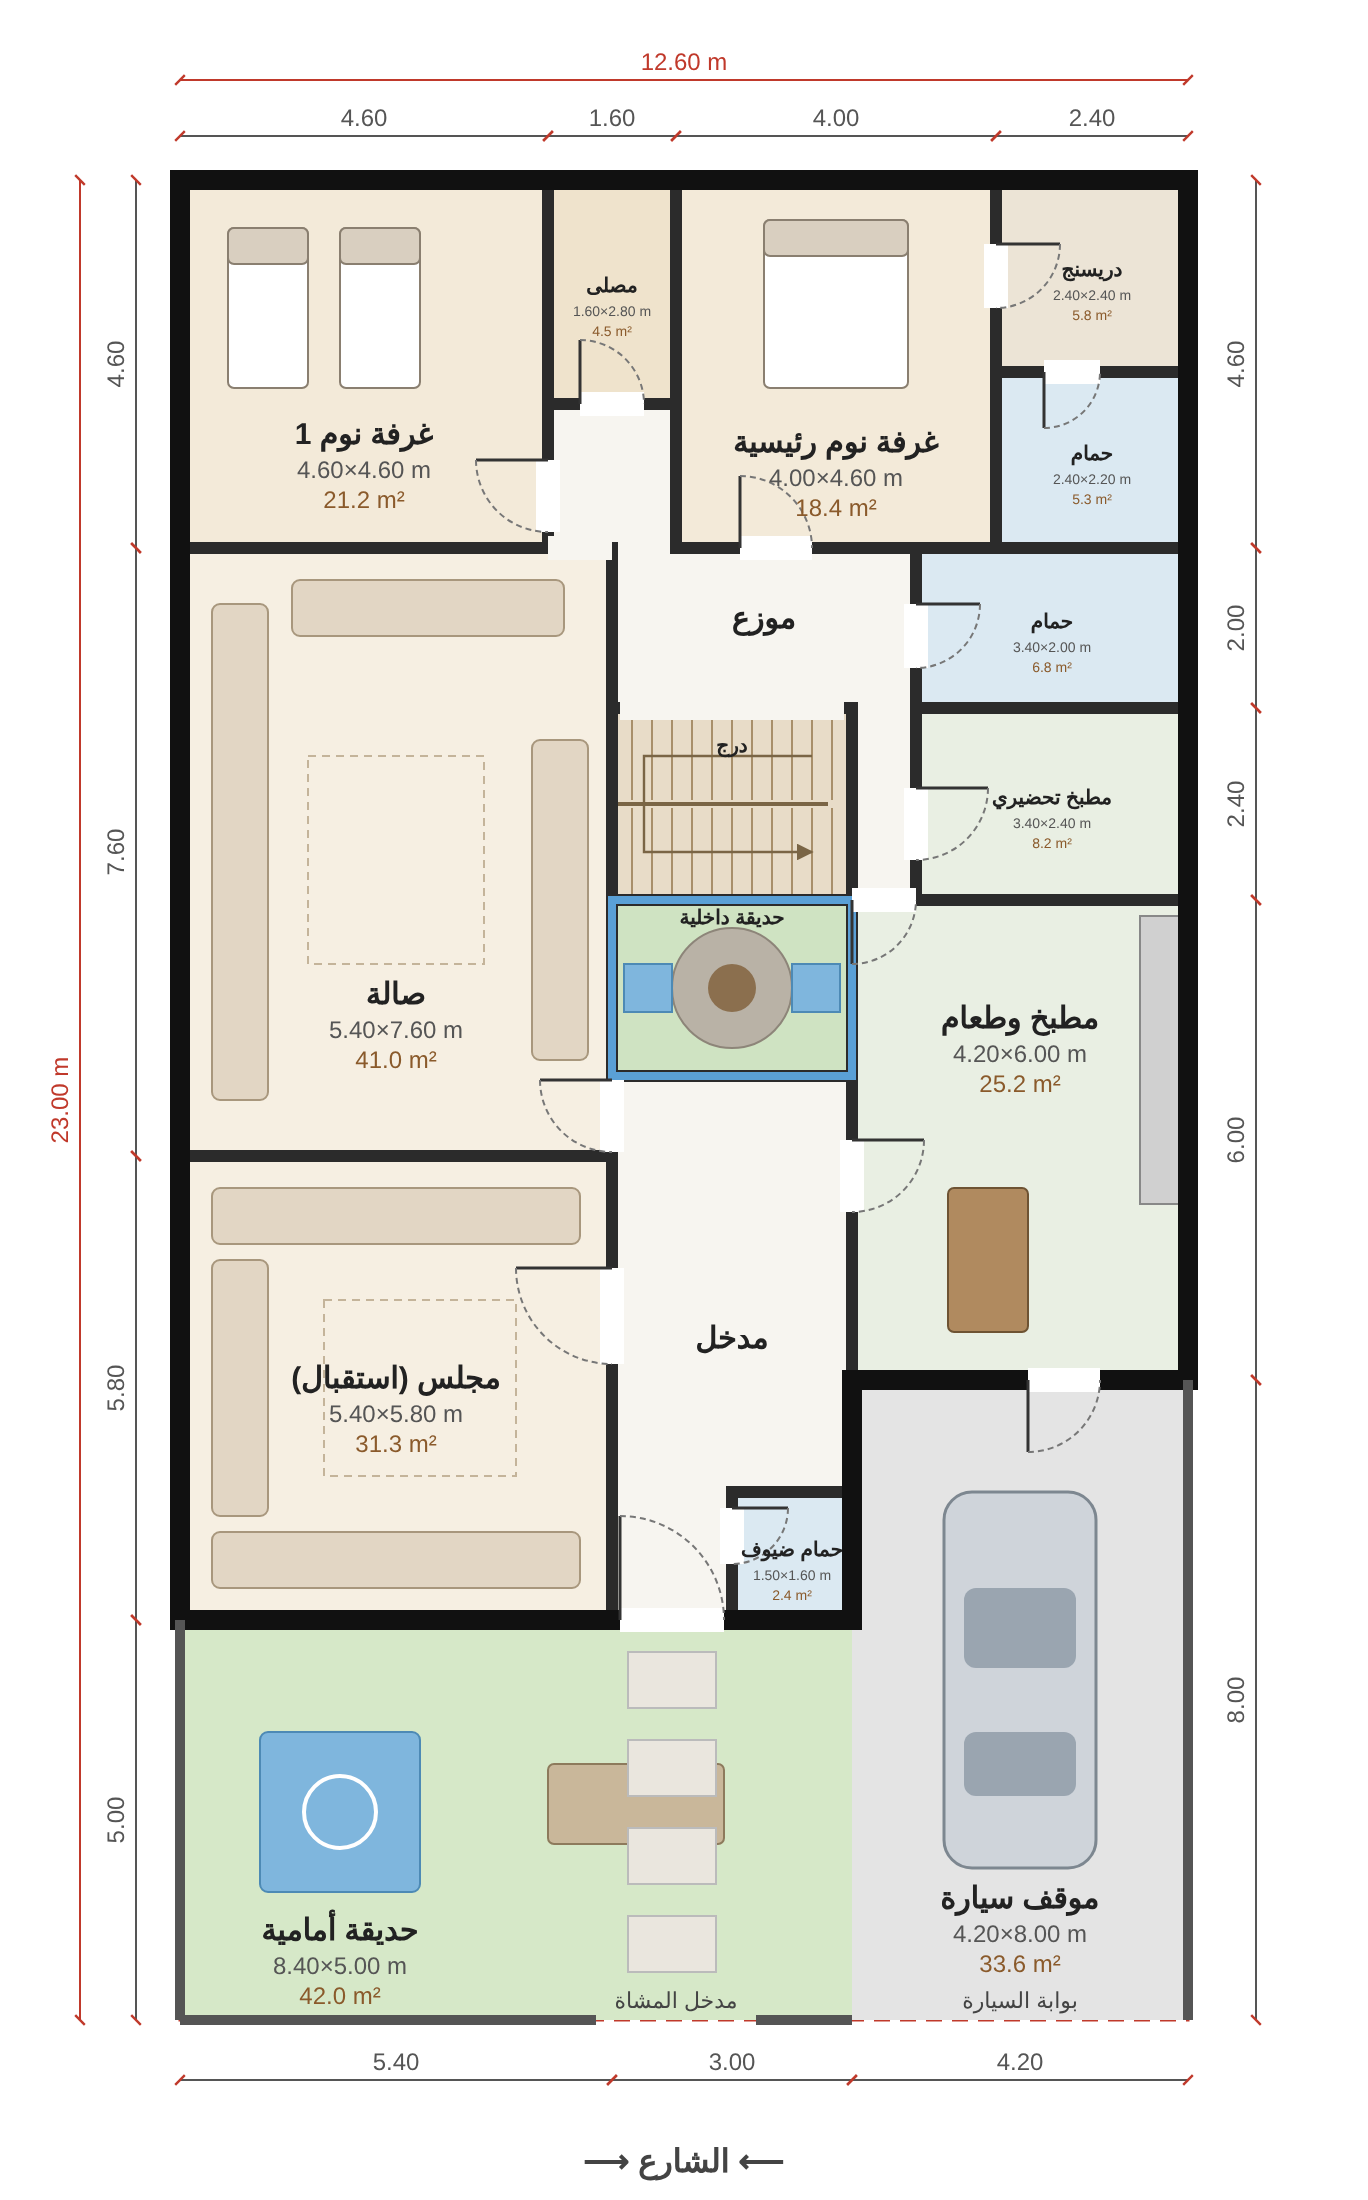
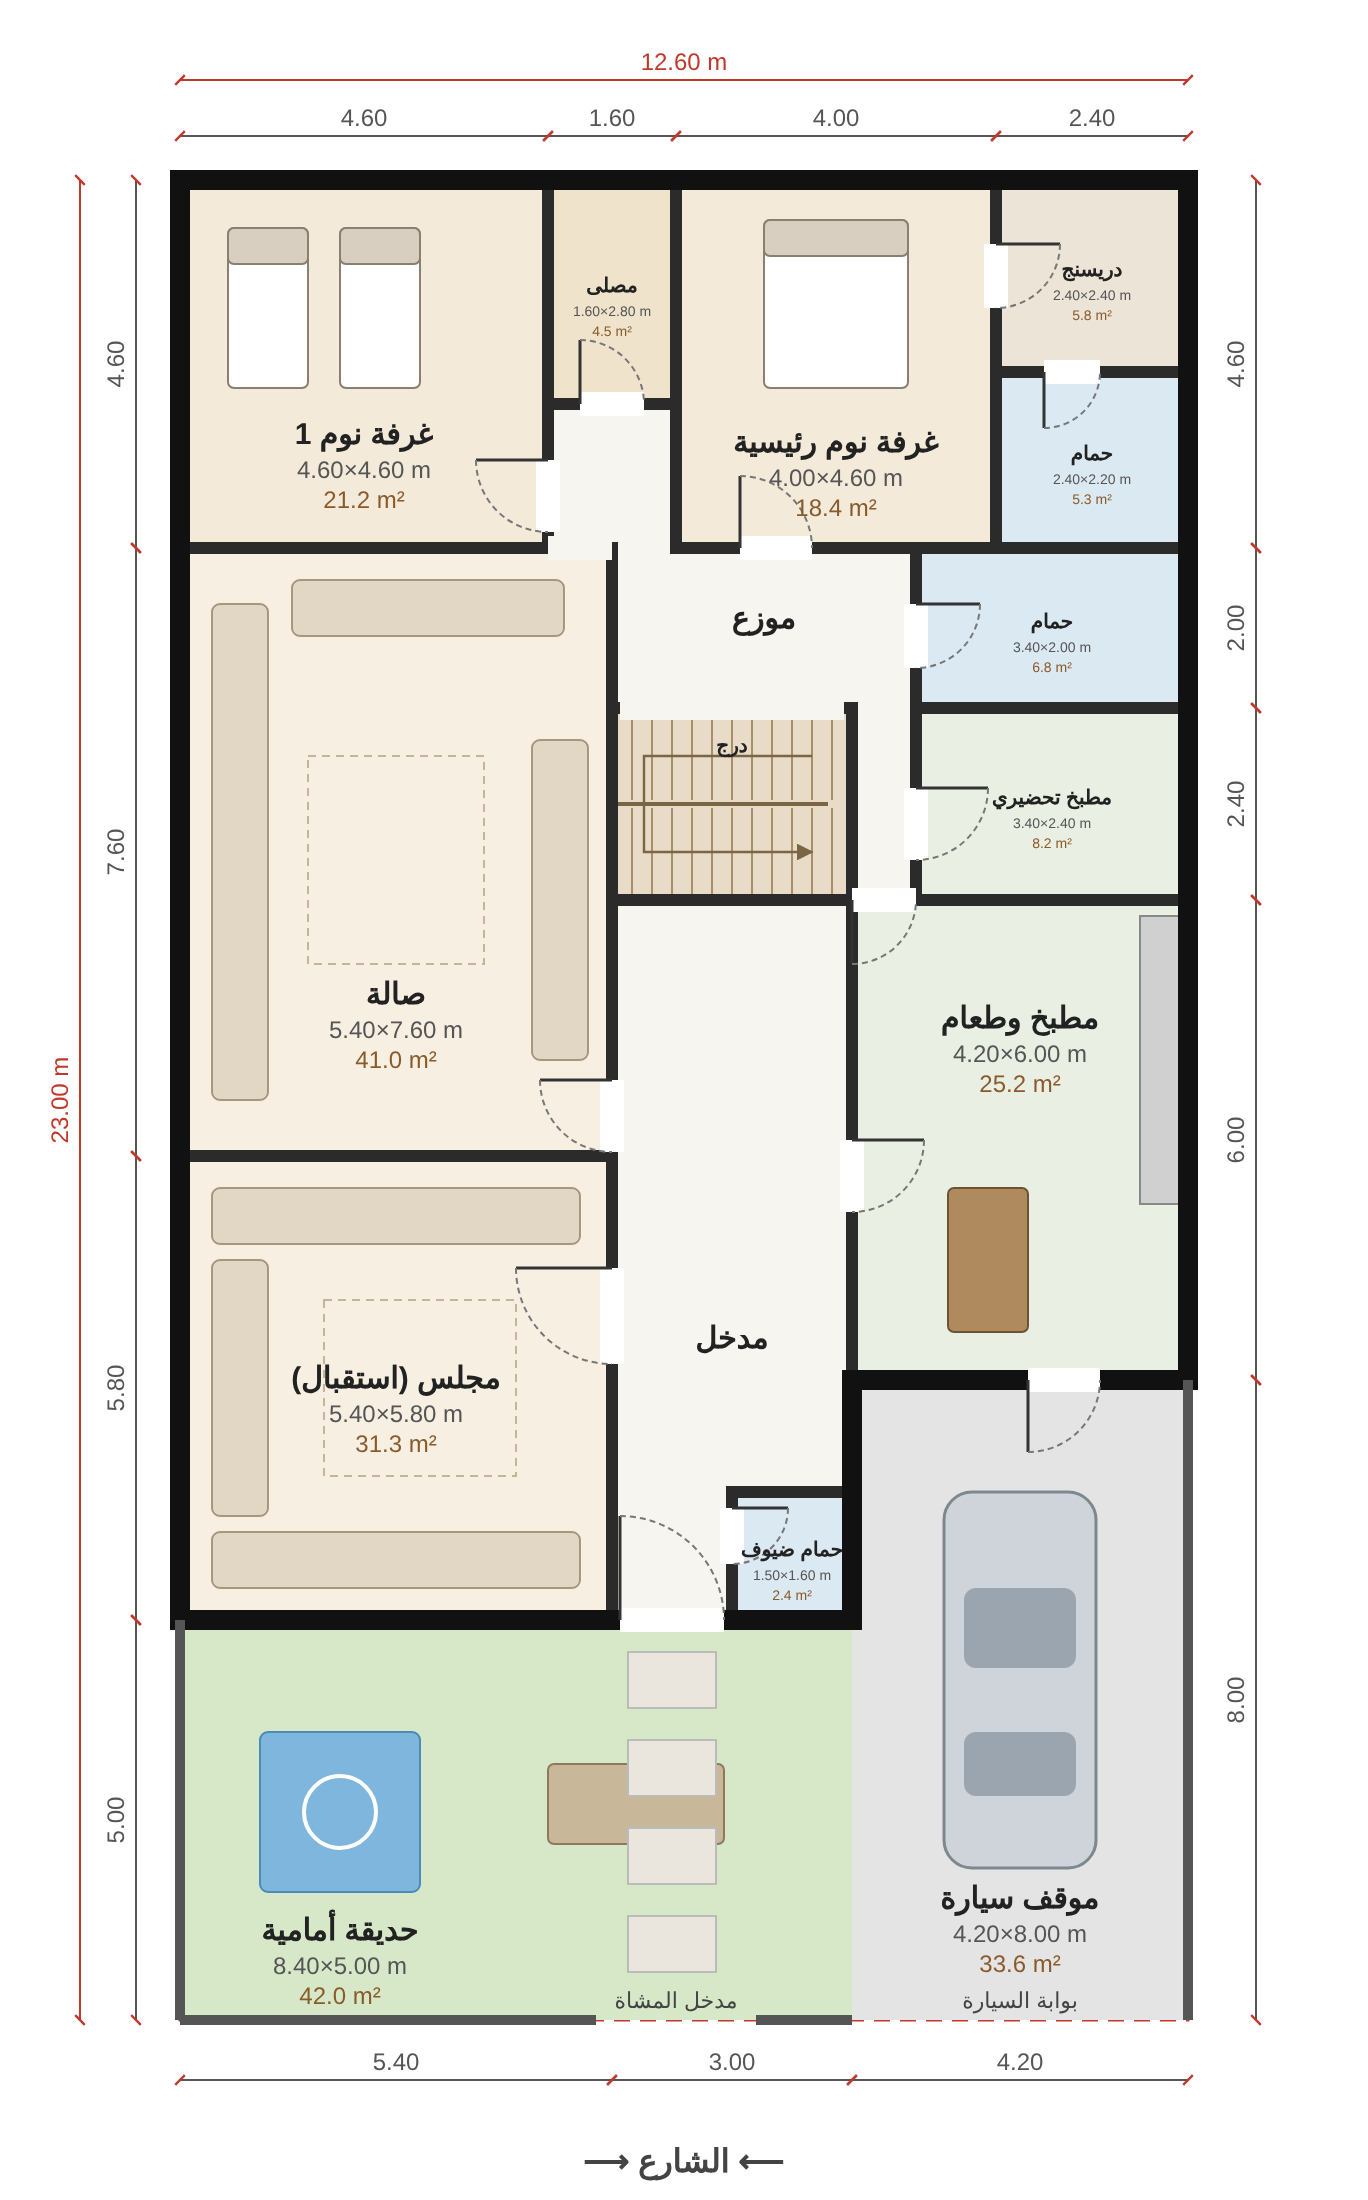
Remove interior courtyard; extend entrance hall to stairs
Claude-Session: https://claude.ai/code/session_014Qo95aYuqLuZ7wHDs8XfcJ

Changed region(s): [[0.4298, 0.4018, 0.6447, 0.4945]]

diff --git a/plan/index.html b/plan/index.html
@@ -26,10 +26,9 @@ tfoot td{font-weight:bold;background:#f7f3ec}
 <polygon points="458.0,354.0 594.0,354.0 594.0,450.0 458.0,450.0" fill="#e9efe3"/>
 <polygon points="90.0,274.0 306.0,274.0 306.0,578.0 90.0,578.0" fill="#f6efe2"/>
 <polygon points="306.0,354.0 426.0,354.0 426.0,450.0 306.0,450.0" fill="#e8dcc8"/>
-<polygon points="306.0,450.0 426.0,450.0 426.0,538.0 306.0,538.0" fill="#cfe3c2"/>
 <polygon points="426.0,450.0 594.0,450.0 594.0,690.0 426.0,690.0" fill="#e9efe3"/>
 <polygon points="90.0,578.0 306.0,578.0 306.0,810.0 90.0,810.0" fill="#f6efe2"/>
-<polygon points="306.0,538.0 426.0,538.0 426.0,746.0 366.0,746.0 366.0,810.0 306.0,810.0" fill="#f7f5f0"/>
+<polygon points="306.0,450.0 426.0,450.0 426.0,746.0 366.0,746.0 366.0,810.0 306.0,810.0" fill="#f7f5f0"/>
 <polygon points="366.0,746.0 426.0,746.0 426.0,810.0 366.0,810.0" fill="#dbe9f2"/>
 <polygon points="426.0,690.0 594.0,690.0 594.0,1010.0 426.0,1010.0" fill="#e4e4e4"/>
 <polygon points="90.0,810.0 426.0,810.0 426.0,1010.0 90.0,1010.0" fill="#d6e8c8"/>
@@ -57,10 +56,6 @@ tfoot td{font-weight:bold;background:#f7f3ec}
 <line x1="416.0" y1="404.0" x2="416.0" y2="450.0" stroke="#a88f6a" stroke-width="1"/>
 <line x1="306.0" y1="402.0" x2="414.0" y2="402.0" stroke="#7a6545" stroke-width="2"/>
 <path d="M406.0,378.0 L322.0,378.0 L322.0,426.0 L406.0,426.0" fill="none" stroke="#7a6545" stroke-width="1.2" marker-end="url(#arr)"/>
-<circle cx="366.0" cy="494.0" r="30.0" fill="#b9b2a6" stroke="#8d8579"/>
-<circle cx="366.0" cy="494.0" r="12.0" fill="#8b6f4e"/>
-<rect x="312.0" y="482.0" width="24.0" height="24.0" fill="#7fb6dd" stroke="#4d8ab5"/>
-<rect x="396.0" y="482.0" width="24.0" height="24.0" fill="#7fb6dd" stroke="#4d8ab5"/>
 <rect x="130.0" y="866.0" width="80.0" height="80.0" fill="#7fb6dd" stroke="#4d8ab5" rx="4"/>
 <circle cx="170.0" cy="906.0" r="18.0" fill="none" stroke="#fff" stroke-width="2"/>
 <rect x="274.0" y="882.0" width="88.0" height="40.0" fill="#c9b79a" stroke="#8d7a5c" rx="3"/>
@@ -97,12 +92,10 @@ tfoot td{font-weight:bold;background:#f7f3ec}
 <polygon points="458.0,354.0 594.0,354.0 594.0,450.0 458.0,450.0" fill="none" stroke="#2b2b2b" stroke-width="6.0" stroke-linejoin="miter"/>
 <polygon points="90.0,274.0 306.0,274.0 306.0,578.0 90.0,578.0" fill="none" stroke="#2b2b2b" stroke-width="6.0" stroke-linejoin="miter"/>
 <polygon points="306.0,354.0 426.0,354.0 426.0,450.0 306.0,450.0" fill="none" stroke="#2b2b2b" stroke-width="6.0" stroke-linejoin="miter"/>
-<polygon points="306.0,450.0 426.0,450.0 426.0,538.0 306.0,538.0" fill="none" stroke="#2b2b2b" stroke-width="6.0" stroke-linejoin="miter"/>
 <polygon points="426.0,450.0 594.0,450.0 594.0,690.0 426.0,690.0" fill="none" stroke="#2b2b2b" stroke-width="6.0" stroke-linejoin="miter"/>
 <polygon points="90.0,578.0 306.0,578.0 306.0,810.0 90.0,810.0" fill="none" stroke="#2b2b2b" stroke-width="6.0" stroke-linejoin="miter"/>
-<polygon points="306.0,538.0 426.0,538.0 426.0,746.0 366.0,746.0 366.0,810.0 306.0,810.0" fill="none" stroke="#2b2b2b" stroke-width="6.0" stroke-linejoin="miter"/>
+<polygon points="306.0,450.0 426.0,450.0 426.0,746.0 366.0,746.0 366.0,810.0 306.0,810.0" fill="none" stroke="#2b2b2b" stroke-width="6.0" stroke-linejoin="miter"/>
 <polygon points="366.0,746.0 426.0,746.0 426.0,810.0 366.0,810.0" fill="none" stroke="#2b2b2b" stroke-width="6.0" stroke-linejoin="miter"/>
-<rect x="306.0" y="450.0" width="120.0" height="88.0" fill="none" stroke="#5aa0d6" stroke-width="4"/>
 <polygon points="90.0,90.0 594.0,90.0 594.0,690.0 426.0,690.0 426.0,810.0 90.0,810.0" fill="none" stroke="#111" stroke-width="10.0" stroke-linejoin="miter"/>
 <polyline points="90.0,810.0 90.0,1010.0" stroke="#555" stroke-width="5" fill="none"/>
 <polyline points="594.0,690.0 594.0,1010.0" stroke="#555" stroke-width="5" fill="none"/>
@@ -178,7 +171,6 @@ tfoot td{font-weight:bold;background:#f7f3ec}
 <text x="198.0" y="519.0" text-anchor="middle" font-size="12" fill="#555" direction="ltr">5.40×7.60 m</text>
 <text x="198.0" y="534.0" text-anchor="middle" font-size="12" fill="#8a5a2b" direction="ltr">41.0 m²</text>
 <text x="366.0" y="376.0" text-anchor="middle" font-size="10" font-weight="bold" fill="#222">درج</text>
-<text x="366.0" y="462.0" text-anchor="middle" font-size="10" font-weight="bold" fill="#222">حديقة داخلية</text>
 <text x="510.0" y="514.0" text-anchor="middle" font-size="15" font-weight="bold" fill="#222">مطبخ وطعام</text>
 <text x="510.0" y="531.0" text-anchor="middle" font-size="12" fill="#555" direction="ltr">4.20×6.00 m</text>
 <text x="510.0" y="546.0" text-anchor="middle" font-size="12" fill="#8a5a2b" direction="ltr">25.2 m²</text>
@@ -237,7 +229,7 @@ tfoot td{font-weight:bold;background:#f7f3ec}
 <text x="510.0" y="1004" text-anchor="middle" font-size="11" fill="#444">بوابة السيارة</text>
 </svg>
 <table><thead><tr><th>الفراغ</th><th>المساحة م²</th></tr></thead>
-<tbody><tr><td>غرفة نوم 1</td><td dir='ltr'>21.16</td></tr><tr><td>مصلى</td><td dir='ltr'>4.48</td></tr><tr><td>غرفة نوم رئيسية</td><td dir='ltr'>18.40</td></tr><tr><td>دريسنج</td><td dir='ltr'>5.76</td></tr><tr><td>حمام</td><td dir='ltr'>5.28</td></tr><tr><td>موزع</td><td dir='ltr'>12.40</td></tr><tr><td>حمام</td><td dir='ltr'>6.80</td></tr><tr><td>مطبخ تحضيري</td><td dir='ltr'>8.16</td></tr><tr><td>صالة</td><td dir='ltr'>41.04</td></tr><tr><td>درج</td><td dir='ltr'>7.20</td></tr><tr><td>حديقة داخلية</td><td dir='ltr'>6.60</td></tr><tr><td>مطبخ وطعام</td><td dir='ltr'>25.20</td></tr><tr><td>مجلس (استقبال)</td><td dir='ltr'>31.32</td></tr><tr><td>مدخل</td><td dir='ltr'>18.00</td></tr><tr><td>حمام ضيوف</td><td dir='ltr'>2.40</td></tr><tr><td>موقف سيارة</td><td dir='ltr'>33.60</td></tr><tr><td>حديقة أمامية</td><td dir='ltr'>42.00</td></tr></tbody>
+<tbody><tr><td>غرفة نوم 1</td><td dir='ltr'>21.16</td></tr><tr><td>مصلى</td><td dir='ltr'>4.48</td></tr><tr><td>غرفة نوم رئيسية</td><td dir='ltr'>18.40</td></tr><tr><td>دريسنج</td><td dir='ltr'>5.76</td></tr><tr><td>حمام</td><td dir='ltr'>5.28</td></tr><tr><td>موزع</td><td dir='ltr'>12.40</td></tr><tr><td>حمام</td><td dir='ltr'>6.80</td></tr><tr><td>مطبخ تحضيري</td><td dir='ltr'>8.16</td></tr><tr><td>صالة</td><td dir='ltr'>41.04</td></tr><tr><td>درج</td><td dir='ltr'>7.20</td></tr><tr><td>مطبخ وطعام</td><td dir='ltr'>25.20</td></tr><tr><td>مجلس (استقبال)</td><td dir='ltr'>31.32</td></tr><tr><td>مدخل</td><td dir='ltr'>24.60</td></tr><tr><td>حمام ضيوف</td><td dir='ltr'>2.40</td></tr><tr><td>موقف سيارة</td><td dir='ltr'>33.60</td></tr><tr><td>حديقة أمامية</td><td dir='ltr'>42.00</td></tr></tbody>
 <tfoot><tr><td>مساحة الأرض</td><td dir='ltr'>289.80</td></tr>
 <tr><td>مسطح البناء</td><td dir='ltr'>214.20</td></tr></tfoot></table></div>
 </body></html>

diff --git a/plan/generate.py b/plan/generate.py
@@ -23,10 +23,9 @@ rooms = [
     ("مطبخ تحضيري", R(9.2, 6.6, 12.6, 9.0), "#e9efe3", "room"),
     ("صالة", R(0, 4.6, 5.4, 12.2), "#f6efe2", "room"),
     ("درج", R(5.4, 6.6, 8.4, 9.0), "#e8dcc8", "stair"),
-    ("حديقة داخلية", R(5.4, 9.0, 8.4, 11.2), "#cfe3c2", "garden"),
     ("مطبخ وطعام", R(8.4, 9.0, 12.6, 15.0), "#e9efe3", "room"),
     ("مجلس (استقبال)", R(0, 12.2, 5.4, 18.0), "#f6efe2", "room"),
-    ("مدخل", [(5.4, 11.2), (8.4, 11.2), (8.4, 16.4), (6.9, 16.4), (6.9, 18.0), (5.4, 18.0)],
+    ("مدخل", [(5.4, 9.0), (8.4, 9.0), (8.4, 16.4), (6.9, 16.4), (6.9, 18.0), (5.4, 18.0)],
      "#f7f5f0", "circ"),
     ("حمام ضيوف", R(6.9, 16.4, 8.4, 18.0), "#dbe9f2", "wet"),
     ("موقف سيارة", R(8.4, 15.0, 12.6, 23.0), "#e4e4e4", "out"),
@@ -90,11 +89,6 @@ for i in range(1, 12):
 out.append(f'<line x1="{X(x0)}" y1="{Y(mid)}" x2="{X(x1-0.3)}" y2="{Y(mid)}" stroke="#7a6545" stroke-width="2"/>')
 out.append(f'<path d="M{X(x1-0.5)},{Y(y0+0.6)} L{X(x0+0.4)},{Y(y0+0.6)} L{X(x0+0.4)},{Y(y1-0.6)} L{X(x1-0.5)},{Y(y1-0.6)}" '
            f'fill="none" stroke="#7a6545" stroke-width="1.2" marker-end="url(#arr)"/>')
-# حديقة داخلية: جلسة دائرية + نوافير
-out.append(f'<circle cx="{X(6.9)}" cy="{Y(10.1)}" r="{0.75*S}" fill="#b9b2a6" stroke="#8d8579"/>')
-out.append(f'<circle cx="{X(6.9)}" cy="{Y(10.1)}" r="{0.3*S}" fill="#8b6f4e"/>')
-for fx in (5.85, 7.95):
-    out.append(f'<rect x="{X(fx-0.3)}" y="{Y(9.8)}" width="{0.6*S}" height="{0.6*S}" fill="#7fb6dd" stroke="#4d8ab5"/>')
 # حديقة أمامية: نافورة + جلسة
 out.append(f'<rect x="{X(1.0)}" y="{Y(19.4)}" width="{2.0*S}" height="{2.0*S}" fill="#7fb6dd" stroke="#4d8ab5" rx="4"/>')
 out.append(f'<circle cx="{X(2.0)}" cy="{Y(20.4)}" r="{0.45*S}" fill="none" stroke="#fff" stroke-width="2"/>')
@@ -125,8 +119,6 @@ out.append(f'<rect x="{X(1.6)}" y="{Y(7.2)}" width="{2.2*S}" height="{2.6*S}" fi
 for name, poly, col, kind in rooms:
     if kind == "out": continue
     out.append(f'<polygon points="{pts(poly)}" fill="none" stroke="#2b2b2b" stroke-width="{INT*S:.1f}" stroke-linejoin="miter"/>')
-# جدار زجاجي حول الحديقة الداخلية
-out.append(f'<rect x="{X(5.4)}" y="{Y(9.0)}" width="{3.0*S}" height="{2.2*S}" fill="none" stroke="#5aa0d6" stroke-width="4"/>')
 # الجدار الخارجي للمبنى
 outline = [(0, 0), (12.6, 0), (12.6, 15.0), (8.4, 15.0), (8.4, 18.0), (0, 18.0)]
 out.append(f'<polygon points="{pts(outline)}" fill="none" stroke="#111" stroke-width="{EXT*S:.1f}" stroke-linejoin="miter"/>')
@@ -161,7 +153,6 @@ for name, poly, col, kind in rooms:
     if name == "موزع": cx, cy = 7.3, 5.6
     if name == "مدخل": cx, cy = 6.9, 14.6
     if name == "صالة": cy = 10.3
-    if name == "حديقة داخلية": cy = 9.3
     if name == "مطبخ وطعام": cx, cy = 10.5, 10.6
     if name == "موقف سيارة": cy = 21.6
     if name == "حديقة أمامية": cx, cy = 2.0, 22.0
